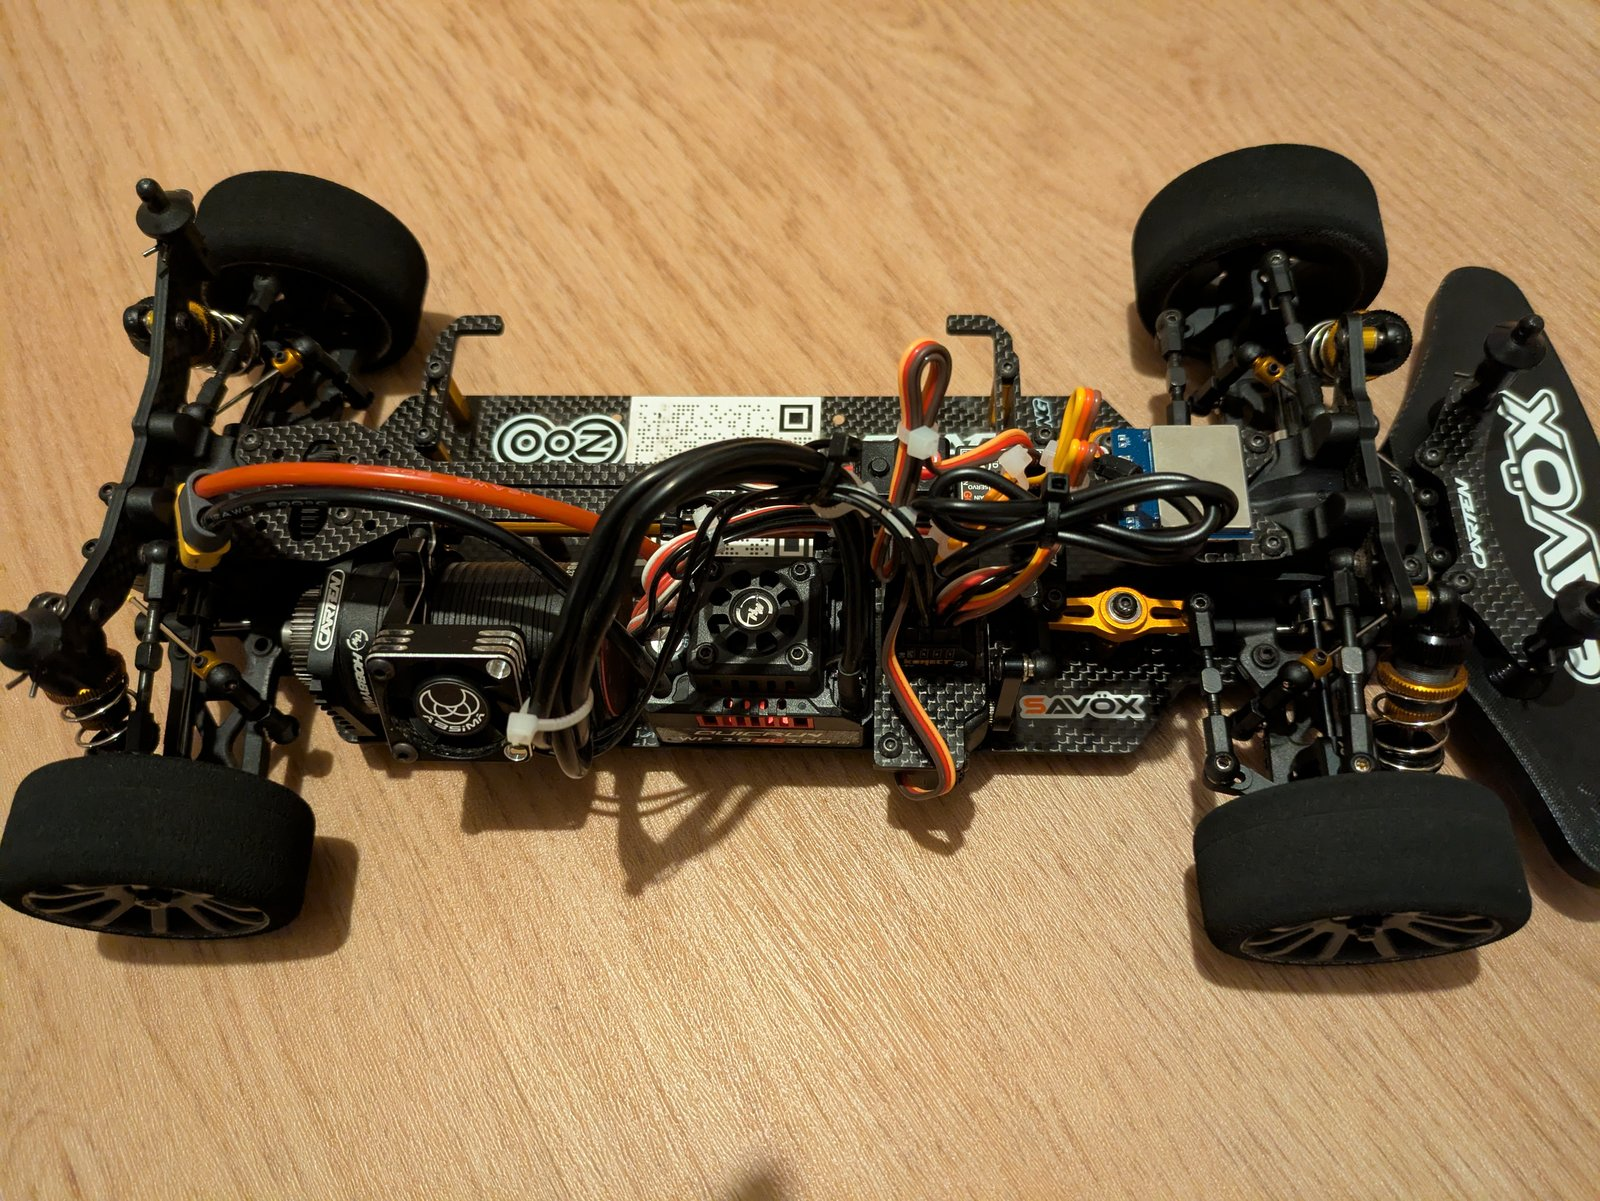
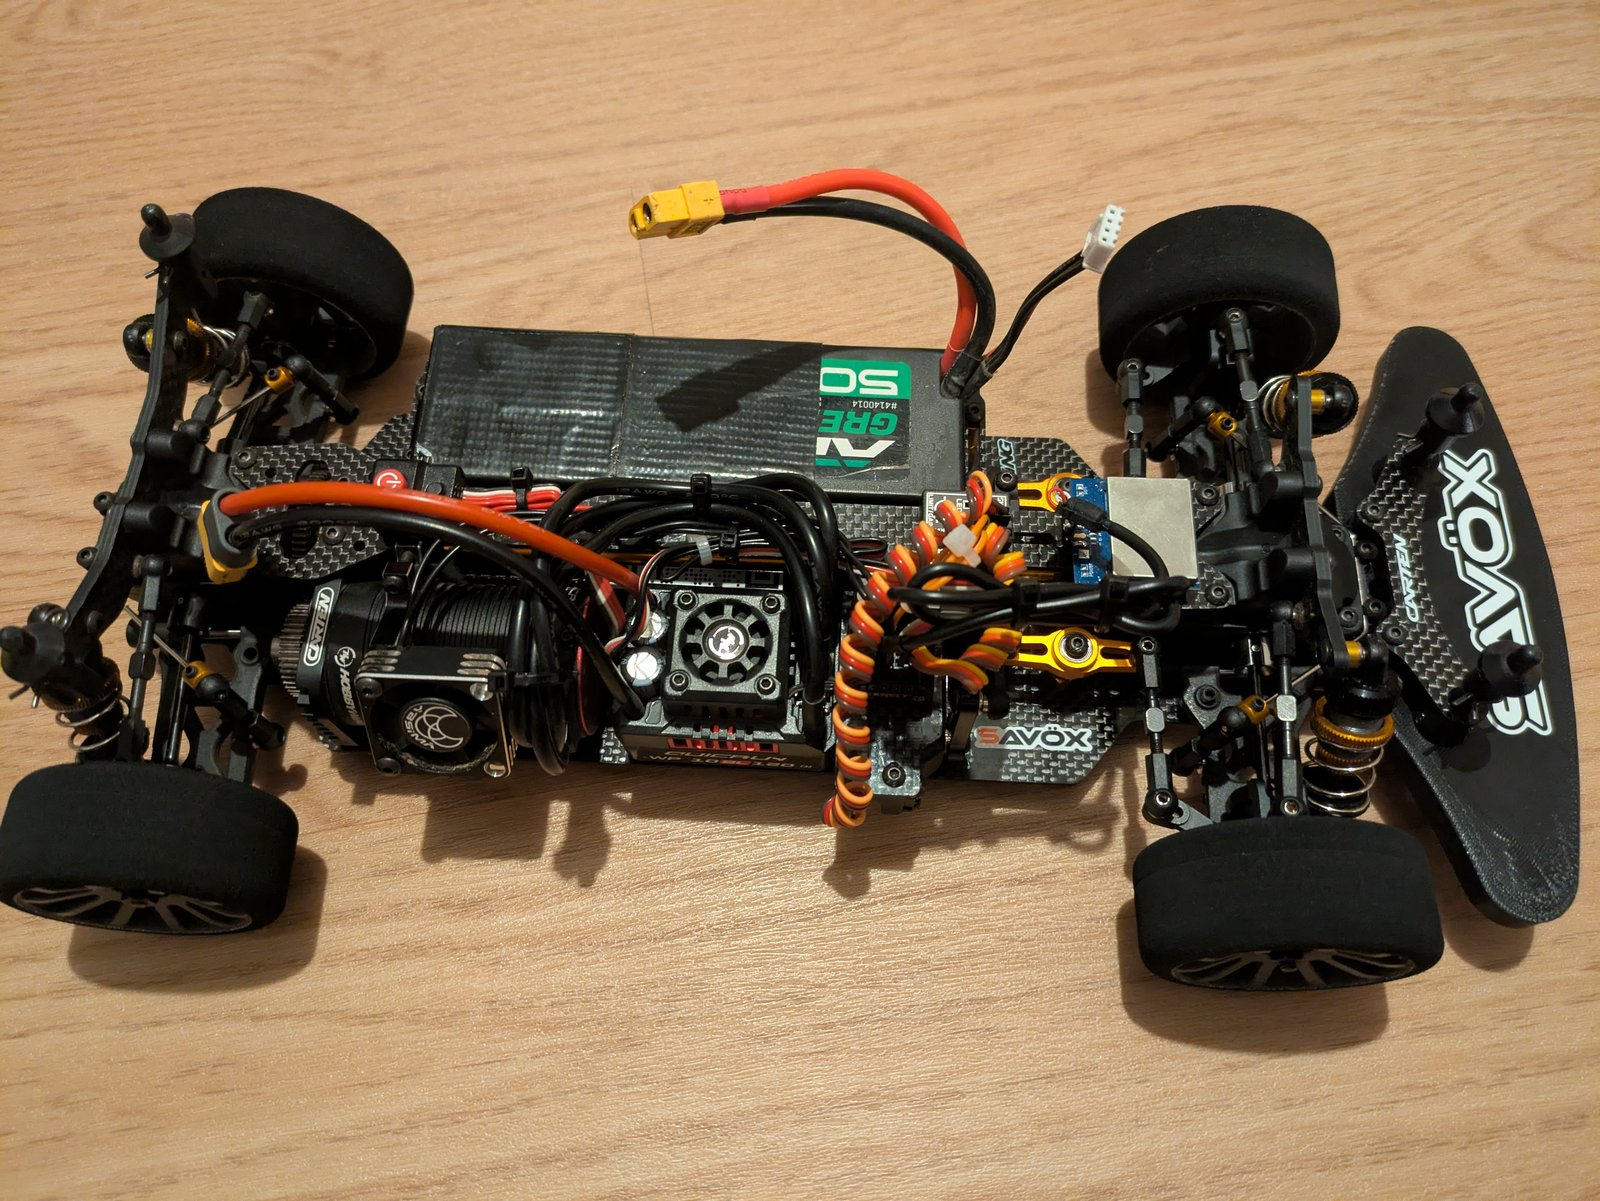
docs: replace chassis photos in readme with front and top view
Replace the side view and the top view below the first photo with a
front view and a top view of the chassis with battery. The new photos
are scaled to 1600 px and contain no metadata. Delete the side view,
which is no longer used.

Claude-Session: https://claude.ai/code/session_012MJxxDumo8CdPDquth9fhB

diff --git a/readme.md b/readme.md
@@ -17,8 +17,8 @@ The artefacts of this repository are:
   </tbody>
   <tbody>
     <tr>
-      <td><img src="photos/rc_car_chassis_side_view.jpg" alt="RC car chassis without body, side view" width="100%"></td>
-      <td><img src="photos/rc_car_chassis_top_view.jpg" alt="RC car chassis without body, top view" width="100%"></td>
+      <td width="37%"><img src="photos/rc_car_chassis_front_view.jpg" alt="RC car chassis without body, front view" width="100%"></td>
+      <td width="63%"><img src="photos/rc_car_chassis_top_view.jpg" alt="RC car chassis without body, top view" width="100%"></td>
     </tr>
   </tbody>
 </table>
